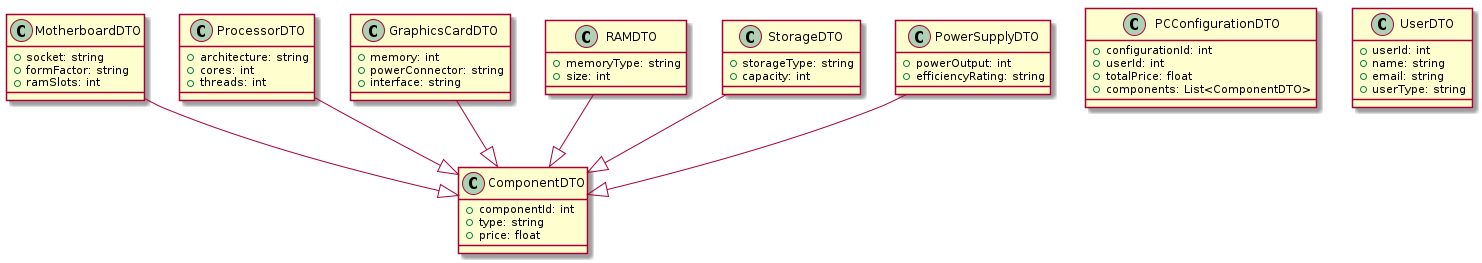
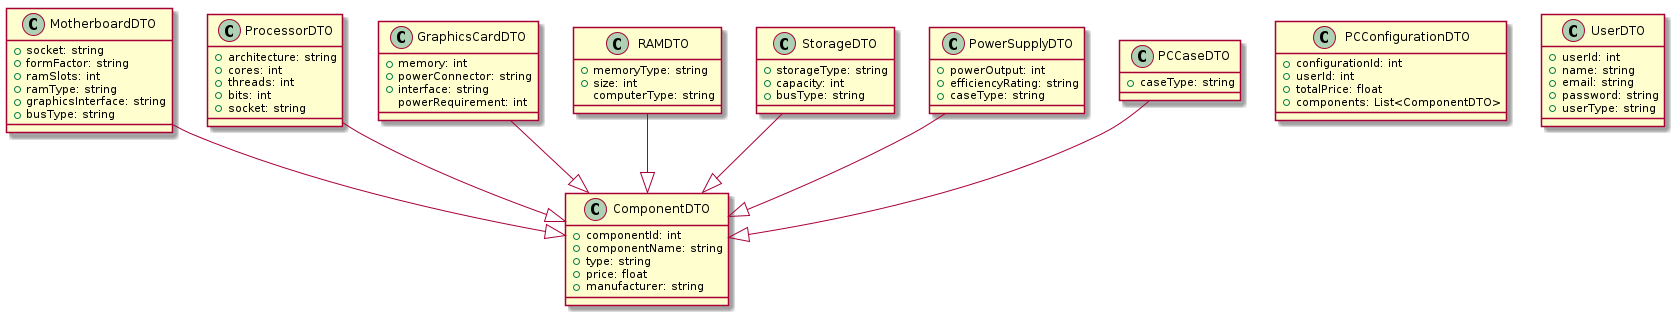
rewrite

diff --git a/docs/diagrams/erd.md b/docs/diagrams/erd.md
@@ -2,14 +2,19 @@
 
 class ComponentDTO {
   +componentId: int
+  +componentName: string
   +type: string
   +price: float
+  +manufacturer: string
 }
 
 class MotherboardDTO {
   +socket: string
   +formFactor: string
   +ramSlots: int
+  +ramType: string
+  +graphicsInterface: string
+  +busType: string
 }
 
 MotherboardDTO --|> ComponentDTO
@@ -18,6 +23,8 @@ class ProcessorDTO {
   +architecture: string
   +cores: int
   +threads: int
+  +bits: int
+  +socket: string
 }
 ProcessorDTO --|> ComponentDTO
 
@@ -25,26 +32,36 @@ class GraphicsCardDTO {
   +memory: int
   +powerConnector: string
   +interface: string
+  powerRequirement: int
 }
 GraphicsCardDTO --|> ComponentDTO
 
 class RAMDTO {
   +memoryType: string
   +size: int
+  computerType: string
 }
 RAMDTO --|> ComponentDTO
 
 class StorageDTO {
   +storageType: string
   +capacity: int
+  +busType: string
 }
 StorageDTO --|> ComponentDTO
 
 class PowerSupplyDTO {
   +powerOutput: int
   +efficiencyRating: string
+  +caseType: string
 }
 PowerSupplyDTO --|> ComponentDTO
+
+class PCCaseDTO {
+  +caseType: string
+}
+
+PCCaseDTO --|> ComponentDTO
 
 class PCConfigurationDTO {
   +configurationId: int
@@ -57,10 +74,8 @@ class UserDTO {
   +userId: int
   +name: string
   +email: string
+  +password: string
   +userType: string
 }
-
-PCConfigurationDTO "1" o-- "" ComponentDTO : contains
-UserDTO "1" -- "0.." PCConfigurationDTO : creates
 
 @endumlc
